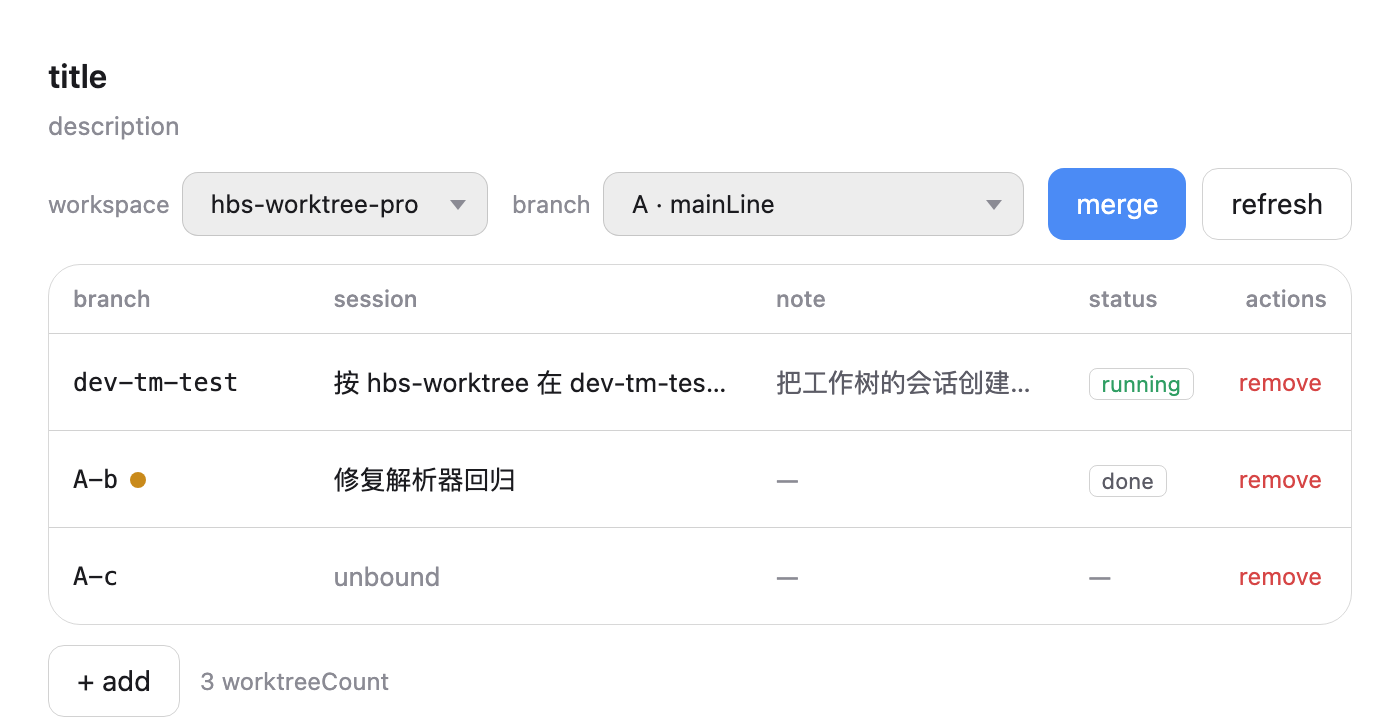
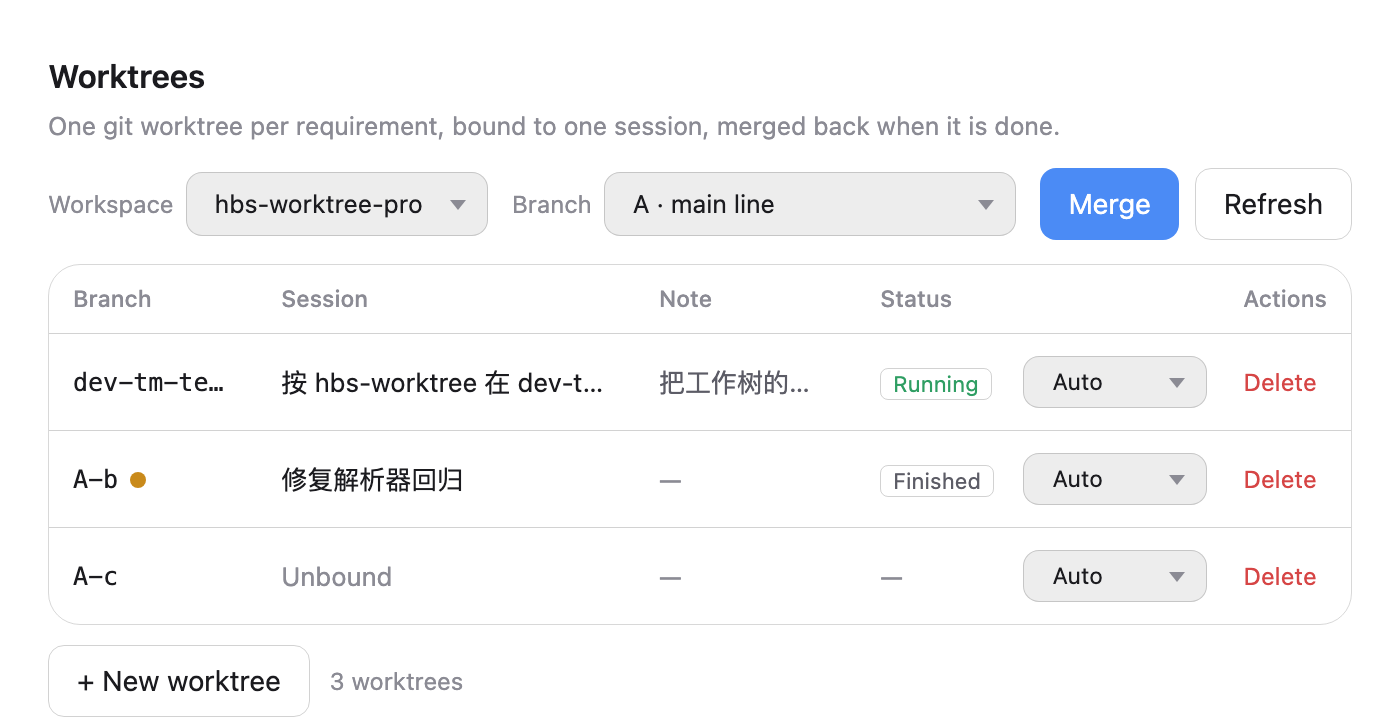
feat: 工作树自动提交开关（默认开） + 完成后必须提交的 skill 规则
- engine: entry 增加 autoCommit（默认 true），新增 update 命令，env/list 返回该字段
- switch: 工作树有未提交改动时拒绝预览（worktree-dirty），并说明原因
- 面板: 操作列改为「自动提交/手动提交」下拉 + 删除，重排列宽（16/29/17/11/27），
  宽/中/窄三个宽度都验证过
- skill: 硬规矩第 4 条——需求做完必须提交并推送，autoCommit=false 时改为提示用户
- 截图工具改为绑定真实英文词典，截图里是标签而不是 key
- 版本 0.6.0

diff --git a/client.js b/client.js
@@ -64,6 +64,10 @@ window.__ModuleLoader__.load({
       add: 'New worktree',
       remove: 'Delete',
       unbound: 'Unbound',
+      autoCommitOn: 'Auto',
+      autoCommitOff: 'Manual',
+      autoCommitHint: 'Auto-commit: the session commits and pushes when the requirement is done. Off: you commit by hand, and switching to it will be refused while dirty.',
+      okAutoCommit: 'Auto-commit setting saved',
       running: 'Running',
       done: 'Finished',
       loading: 'Loading…',
@@ -124,6 +128,10 @@ window.__ModuleLoader__.load({
       add: '新增工作树',
       remove: '删除',
       unbound: '未绑定',
+      autoCommitOn: '自动提交',
+      autoCommitOff: '手动提交',
+      autoCommitHint: '自动提交：会话做完需求自己提交并推送。手动提交：你自己提交；工作树有未提交改动时不允许切过去。',
+      okAutoCommit: '自动提交设置已保存',
       running: '运行中',
       done: '已完成',
       loading: '加载中…',
@@ -270,7 +278,10 @@ window.__ModuleLoader__.load({
     };
     const tableStyle = { width: '100%', borderCollapse: 'collapse', tableLayout: 'fixed' };
     /** Branch / session / note / status / actions — the table owns these, not the cells. */
-    const COLUMN_WIDTHS = ['20%', '34%', '24%', '10%', '12%'];
+    const COLUMN_WIDTHS = ['16%', '29%', '17%', '11%', '27%'];
+    /** Two controls in one cell: the auto-commit picker and the delete action. */
+    const actionGroupStyle = { display: 'inline-flex', alignItems: 'center', gap: 8, justifyContent: 'flex-end' };
+    const actionSelectStyle = { width: 92, height: 26, fontSize: 11.5 };
     const rowHover = { cursor: 'default' };
     const thStyle = {
       textAlign: 'left',
@@ -436,7 +447,7 @@ window.__ModuleLoader__.load({
         '请先读取并严格遵守 hbs-worktree skill。',
         '本会话已绑定工作树分支 ' + String(branch || '') + '，工作目录是 ' + String(path || '') + '。',
         '所有文件操作只能用该目录下的绝对路径，所有 git 命令用 git -C ' + String(path || '') + '，',
-        '不要修改主业务代码目录里的任何文件；收尾时提交并推送，合并在面板上由我来做。',
+        '不要修改主业务代码目录里的任何文件；需求完成时按 skill 的规则提交并推送（默认要提交），合并在面板上由我来做。',
       ].join('\n');
     }
 
@@ -513,6 +524,7 @@ window.__ModuleLoader__.load({
             opacity: props.disabled ? 0.5 : 1,
           }),
           value: props.value,
+          title: props.title,
           disabled: props.disabled,
           onChange: props.onChange,
         }, props.options.map((option) => h('option', { key: option.value, value: option.value }, option.label))),
@@ -620,12 +632,25 @@ window.__ModuleLoader__.load({
             ? h('span', { style: mutedText }, '—')
             : (known.running === true ? h(Tag, { tone: 'ok' }, t('running')) : h(Tag, null, t('done')))),
         h('td', { style: Object.assign({}, cell, { textAlign: 'right' }) },
-          h('button', Object.assign({
-            type: 'button',
-            style: smallButton('danger'),
-            title: exists ? undefined : t('missingDir'),
-            onClick: () => props.onRemove(row),
-          }, hoverable('danger')), t('remove'))));
+          h('span', { style: actionGroupStyle },
+            h(Select, {
+              value: row.autoCommit === false ? 'off' : 'on',
+              wrapperStyle: { flex: 'none' },
+              controlStyle: actionSelectStyle,
+              title: t('autoCommitHint'),
+              disabled: !exists,
+              options: [
+                { value: 'on', label: t('autoCommitOn') },
+                { value: 'off', label: t('autoCommitOff') },
+              ],
+              onChange: (event) => props.onAutoCommit(row, event.target.value === 'on'),
+            }),
+            h('button', Object.assign({
+              type: 'button',
+              style: smallButton('danger'),
+              title: exists ? undefined : t('missingDir'),
+              onClick: () => props.onRemove(row),
+            }, hoverable('danger')), t('remove')))));
     }
 
     /** Modal asking for branch name, session and note; the engine's refusal stays inline. */
@@ -851,6 +876,18 @@ window.__ModuleLoader__.load({
         setNotice({ tone: 'bad', text: errorText(t, result.error), files: [] });
       };
 
+      // Auto-commit is a per-worktree setting the session reads through
+      // `hbs-wt env`, so changing it here changes what the agent does next.
+      const changeAutoCommit = async (row, autoCommit) => {
+        setNotice(null);
+        const result = await actions.run('update', { branch: String(row.branch || ''), autoCommit: autoCommit });
+        if (result.ok === true) {
+          setNotice({ tone: 'ok', text: t('okAutoCommit') + ' · ' + String(row.branch || '') + ' · ' + (autoCommit ? t('autoCommitOn') : t('autoCommitOff')), files: [] });
+          return;
+        }
+        setNotice({ tone: 'bad', text: errorText(t, result.error), files: [] });
+      };
+
       const everyBranch = base === '' ? [] : [base].concat(worktrees.map((row) => String(row.branch || '')).filter((branch) => branch !== '' && branch !== base));
       const branchOptions = base === '' ? [] : [{ value: base, label: base + ' · ' + t('mainLine') }]
         .concat(worktrees.map((row) => String(row.branch || '')).filter((branch) => branch !== '' && branch !== base).map((branch) => ({ value: branch, label: branch })));
@@ -998,6 +1035,7 @@ window.__ModuleLoader__.load({
             row: row,
             sessionById: sessionById,
             isLast: index === worktrees.length - 1,
+            onAutoCommit: (target, autoCommit) => void changeAutoCommit(target, autoCommit),
             onRemove: (target) => setDialog({ kind: 'remove', branch: String(target.branch || '') }),
           }));
         tableArea = h('div', { style: tableWrapStyle },

diff --git a/lib/engine.js b/lib/engine.js
@@ -185,6 +185,9 @@ async function rowOf(root, base, branch, path, exists, entry) {
     ahead: base === null ? 0 : await git.commitsBetween(root, base, branch),
     session: typeof entry?.session === 'string' ? entry.session : '',
     note: typeof entry?.note === 'string' ? entry.note : '',
+    // Auto-commit is the default the skill relies on: finish a requirement, commit
+    // it, push it. Opting out is per worktree so one branch can stay hands-on.
+    autoCommit: entry?.autoCommit !== false,
     createdAt: typeof entry?.createdAt === 'string' ? entry.createdAt : '',
   };
 }
@@ -309,7 +312,8 @@ async function add(args, options) {
 
   const session = typeof args.session === 'string' ? args.session : '';
   const note = typeof args.note === 'string' ? args.note.trim() : '';
-  repo.state.entries[branch] = { session: '', note, createdAt: new Date().toISOString() };
+  const autoCommit = args.autoCommit !== false;
+  repo.state.entries[branch] = { session: '', note, autoCommit, createdAt: new Date().toISOString() };
   if (session !== '') setBinding(repo.state, branch, session);
   await repo.save();
   return { worktree: await rowOf(repo.root, base, branch, path, true, repo.state.entries[branch]) };
@@ -369,6 +373,20 @@ async function switchTo(args, options) {
   if (currentBranch === branch) {
     return { branch, base, changed: false };
   }
+  // A worktree branch previewed with uncommitted edits would show the branch tip,
+  // not the work in progress — say so instead of silently hiding it.
+  const entry = repo.state.entries[branch];
+  const listed = (await git.worktrees(repo.root)).find((worktree) => worktree.branch === branch);
+  const worktreePath = entry === undefined
+    ? undefined
+    : (listed === undefined ? join(repo.paths.dir, ...branch.split('/')) : listed.path);
+  if (worktreePath !== undefined && existsSync(worktreePath) && (await git.isDirty(worktreePath))) {
+    throw new EngineError(
+      'worktree-dirty',
+      `工作树 ${branch} 还有未提交的改动：切过去也看不到这些内容。先让它提交（或手动提交）再切换。`,
+      { path: worktreePath, branch },
+    );
+  }
   if (await git.isDirty(repo.root)) {
     throw new EngineError('main-dirty', '主业务代码有未提交改动，先提交或 stash 再切换。', { root: repo.root });
   }
@@ -376,7 +394,7 @@ async function switchTo(args, options) {
   // refuses a second checkout of the same branch — so previewing it means a
   // detached HEAD. The worktree itself stays untouched, and the base does not
   // move: this is a look, not a change of business branch.
-  const isWorktree = repo.state.entries[branch] !== undefined;
+  const isWorktree = entry !== undefined;
   const checkout = await git.git(repo.root, isWorktree ? ['checkout', '--detach', branch] : ['checkout', branch]);
   if (!checkout.ok) throw new EngineError('internal', `切换失败：${checkout.stderr}`, { branch });
   repo.state.preview = isWorktree ? branch : null;
@@ -423,6 +441,17 @@ async function merge(args, options) {
   return { from, into, merged: true };
 }
 
+/** `update` — change one worktree's settings (currently the auto-commit switch). */
+async function update(args, options) {
+  const repo = await openRepo(options);
+  const branch = await branchName(args.branch, '分支名');
+  const entry = repo.state.entries[branch];
+  if (entry === undefined) throw new EngineError('unknown-worktree', `没有 ${branch} 这个工作树。`, { branch });
+  if (typeof args.autoCommit === 'boolean') entry.autoCommit = args.autoCommit;
+  await repo.save();
+  return { branch, autoCommit: entry.autoCommit !== false };
+}
+
 /** `bind` — pin one session to one worktree branch. */
 async function bind(args, options) {
   const repo = await openRepo(options);
@@ -465,6 +494,7 @@ async function env(args, options) {
       base: repo.state.base,
       session,
       note: typeof entry.note === 'string' ? entry.note : '',
+      autoCommit: entry.autoCommit !== false,
     };
   }
   return null;
@@ -483,6 +513,7 @@ const COMMANDS = {
   repo: repoInfo,
   list,
   add,
+  update,
   remove,
   switch: switchTo,
   merge,

diff --git a/docs/CONTRACT.md b/docs/CONTRACT.md
@@ -52,7 +52,8 @@ git 命令直接在主业务代码目录里执行。本文件覆盖 v1 中冲突
 | --- | --- | --- |
 | `repo` | `{}` | `{ root, isGit, base, preview, currentBranch, detached, dirty }` |
 | `list` | `{}` | `{ root, isGit, base, preview, currentBranch, detached, dirty, worktrees: [row] }` |
-| `add` | `{ branch, session?, note? }` | `{ worktree: row }` |
+| `add` | `{ branch, session?, note?, autoCommit? }` | `{ worktree: row }` |
+| `update` | `{ branch, autoCommit }` | `{ branch, autoCommit }` |
 | `remove` | `{ branch, force? }` | `{ branch, removed: true }` |
 | `switch` | `{ branch }` | `{ branch, base, preview, changed, detached }` |
 | `merge` | `{ from, into }` | `{ from, into, merged: true }` |
@@ -71,6 +72,7 @@ git 命令直接在主业务代码目录里执行。本文件覆盖 v1 中冲突
   "path": "/项目/.worktree/A-a",
   "session": "session-6742…",
   "note": "解析器重写",
+  "autoCommit": true,
   "createdAt": "2026-11-10T02:00:00.000Z",
   "exists": true,
   "dirty": false,
@@ -79,6 +81,8 @@ git 命令直接在主业务代码目录里执行。本文件覆盖 v1 中冲突
 ```
 
 `exists` 为 false 表示元数据还在但目录没了（可 `prune`）；`ahead` 是相对 `base` 的领先提交数。
+`autoCommit` 默认 `true`：会话收尾自己提交并推送；用户可在操作列切成 `false`，此时会话不提交，
+且 `switch` 会因工作树脏被拒绝（切过去也看不到未提交内容）。
 
 ### 预览 vs 切换
 
@@ -139,7 +143,8 @@ git 命令直接在主业务代码目录里执行。本文件覆盖 v1 中冲突
   任何一步失败都要说清：工作树已建、会话未成，让用户自己补。
 - **表格列**：分支 / 会话 / 备注 / 状态 / 操作。
   - 状态：会话 `running === true` → 「运行中」，否则「已完成」；未绑定会话显示「—」。
-  - 操作：只有「删除」，二次确认后执行 `remove`；返回 `unmerged-commits` 时提示确认后可强制删。
+  - 操作：两个控件——「自动提交 / 手动提交」下拉（执行 `update`）+「删除」（二次确认后执行 `remove`；
+    返回 `unmerged-commits` / `worktree-dirty` 时提示确认后可强制删）。
 - **空态**：表格空 + 「新增工作树」。
 - **非 git**：顶部提示，页面其余部分不渲染。
 
@@ -147,13 +152,19 @@ git 命令直接在主业务代码目录里执行。本文件覆盖 v1 中冲突
 `byId[sessionId]` 有 `title`、`running`、`cwd`、`blank`；归档集合在
 `ctx.workspaces.list.getSnapshot().archivedSessionIds`。
 
-## 5. 会话归属
+## 5. 提交规则
+
+会话做完需求必须提交（`autoCommit: true`，默认）：分支独立，提交不影响主业务代码；不提交则
+`switch` 会以 `worktree-dirty` 拒绝（预览只显示已提交内容），成果也看不见。
+`autoCommit: false` 时会话不得提交，改为提示用户手动提交。
+
+## 6. 会话归属
 
 新建的会话用 `workspaceId` 挂在**面板当前选中的 Harness 工作区**下（不是 `cwd`），
 所以它出现在那个项目里；「只操作工作树目录」由 skill 的纪律约束，而不是物理 cwd。
 `cwd` 方案（会话根目录直接是工作树）隔离更强，但会话归类会脱离项目，v2 不采用。
 
-## 6. skill 协议（随插件分发）
+## 7. skill 协议（随插件分发）
 
 绑定后 agent 只在 `<root>/.worktree/<branch>` 里干活，全部用绝对路径、`git -C`，收尾仍走 CLI。
 主业务分支由用户在面板上合并，agent 不碰。

diff --git a/README.md b/README.md
@@ -26,6 +26,7 @@ hbs-worktree makes the requirement a first-class thing: its own directory, its o
 | Lock the directory | Nothing | The session's first message tells the agent to read the `hbs-worktree` skill and only touch absolute paths under `.worktree/<branch>` |
 | Preview | Switch the branch picker | The main checkout shows that branch and can run; "back to main line" restores it |
 | Merge | Merge dialog: source + target | Plain `git merge`; a conflict rolls back and lists the files |
+| Commit | The actions dropdown: auto / manual (auto by default) | Auto: the session commits and pushes when done. Manual: you commit yourself |
 | Clean up | Delete + confirm | Removes directory and branch; uncommitted or unmerged work needs a second confirmation |
 
 ## How it works
@@ -88,6 +89,7 @@ npm pack          # produces hbs-worktree-<version>.tgz, install that with the p
 2. **+ New worktree** — branch `dev-a`, session name, optional note.
    *Effect: branch created, checked out under `.worktree/dev-a`, a session created in this workspace, named, bound, revealed, and given its first instruction — in one click.*
 3. **Work in that session** — the agent edits `.worktree/dev-a` only; the main code is untouched and the status column shows whether the session is running.
+   When the requirement is done the session **commits and pushes by default**: it is a separate branch, so committing cannot touch the main code, while *not* committing means a preview is refused (dirty worktree) and the work is invisible. Switch the actions dropdown to "Manual" to opt out.
 4. **Preview** — switch the branch picker to `dev-a`.
    *Effect: the main checkout shows that branch, so a dev server runs it; "back to main line" restores the base branch.*
 5. **Merge** — pick source and target (the base branch by default).
@@ -123,7 +125,7 @@ hbs-wt prune                       # drop stale worktree metadata
 
 ## Session protocol
 
-The `hbs-worktree` skill ships with the plugin and states six rules: confirm the binding before writing, use absolute paths under the returned `root`, run git as `git -C <root>`, never switch or merge, report conflicts verbatim, commit and push when done.
+The `hbs-worktree` skill ships with the plugin and states seven rules: confirm the binding before writing, use absolute paths under the returned `root`, run git as `git -C <root>`, **commit when the requirement is done** (unless the worktree opted out of auto-commit), never switch or merge, report conflicts verbatim, and report what changed.
 
 ## State
 
@@ -134,6 +136,7 @@ The `hbs-worktree` skill ships with the plugin and states six rules: confirm the
 - **`git status` says `HEAD (no branch)` while previewing** — the branch is checked out elsewhere; content is right, commits belong in the worktree.
 - **No `node_modules` in a worktree** — `git worktree add` checks out tracked files only; install what you need there.
 - **Switching or merging needs a clean main checkout** — otherwise the dirty tree would be overwritten.
+- **"The worktree has uncommitted changes" when previewing** — a preview shows committed content only, so the panel refuses instead of hiding your work; commit first (that is why auto-commit is the default).
 - **You cannot merge into a worktree branch** — git will not check out that branch twice.
 - **Never run `git clean -xdf` in the main checkout** — `-x` would delete `.worktree/`.
 - **Do other users need to install the skill separately?** No — it is registered by the plugin.

diff --git a/assets/hbs-worktree.md b/assets/hbs-worktree.md
@@ -18,9 +18,13 @@
 2. **只用绝对路径。** 绑定返回的 `root` 是唯一可写目录：`<root>/…`。会话的当前目录仍是主业务代码，
    相对路径会写进主代码。
 3. **git 命令一律 `git -C <root> …`。** 禁止在主业务目录里 commit / checkout / merge / push / reset。
-4. **不碰主业务分支。** 不切分支、不合并、不删除；合并由用户在面板上点「合并」。
-5. **不删工作树。** 删除是用户在面板上的操作，你没有这个权限。
-6. **冲突不猜。** 遇到冲突原样上报文件清单，不自动 resolve、不 `--force`。
+4. **做完了必须提交。** 需求完成时执行 `git -C <root> add -A && git -C <root> commit -m "…"`
+   （有远端再 `git -C <root> push`）。工作树是独立分支，提交不会影响主代码；反过来，**不提交**会
+   让用户切过去时被拒绝（工作树有未提交改动），而且切换后看到的还是旧内容。
+   唯一的例外：`hbs-wt env` 的 `autoCommit` 为 `false` 时不要提交，改为提醒用户手动提交。
+5. **不碰主业务分支。** 不切分支、不合并、不删除；合并由用户在面板上点「合并」。
+6. **不删工作树。** 删除是用户在面板上的操作，你没有这个权限。
+7. **冲突不猜。** 遇到冲突原样上报文件清单，不自动 resolve、不 `--force`。
 
 ## 命令
 
@@ -63,15 +67,28 @@ hbs-wt env --session $DSH_SESSION_ID
 
 ```json
 { "root": "/项目/.worktree/A-a", "branch": "A-a", "base": "A",
-  "repo": "/项目", "session": "session-…", "note": "解析器重写" }
+  "repo": "/项目", "session": "session-…", "note": "解析器重写", "autoCommit": true }
 ```
 
-`root` 就是本会话的工作目录。
+`root` 就是本会话的工作目录；`autoCommit` 决定收尾要不要自己提交（见第三步）。
 
 **第二步：干活。** 所有编辑用 `root` 开头的绝对路径，所有 git 命令 `git -C <root>`。
 提交信息用中文，一个逻辑改动一次提交。有远端时收尾 `git -C <root> push`。
 
-**第三步：回报。** 告诉用户：改了哪些文件、提交了几次、是否已推送、还有什么没做完。
+**第三步：提交并回报。** 需求完成时，`autoCommit` 为 `true`（默认）就执行：
+
+```bash
+git -C <root> add -A
+git -C <root> commit -m "feat: 这次需求做了什么"
+git -C <root> push        # 有远端时
+```
+
+**为什么必须提交**：工作树是独立分支，提交不会碰到主业务代码；但不提交的话，用户切到这个分支
+会被拒绝（工作树有未提交改动），即使切过去也看不到你改的东西——等于白做。
+`autoCommit` 为 `false` 时（用户在面板上关掉了）不要提交，把「还有哪些改动没提交」告诉用户，
+让他自己提交。
+
+最后回报：改了哪些文件、提交了几次、是否已推送、还有什么没做完。
 **不要自己合并、不要自己切分支**——合并由用户在面板选源/目标执行。
 
 如果第一条指令没有自动发出（面板会提示你手动发送），把它原样发给我：

diff --git a/CHANGELOG.md b/CHANGELOG.md
@@ -1,5 +1,17 @@
 # Changelog
 
+## 0.6.0 — 2026-11-10
+
+- **Auto-commit is now a per-worktree setting**, on by default and switched from the
+  actions column (`update` command). The skill asks the session to commit and push when
+  the requirement is done — a separate branch cannot touch the main code, while *not*
+  committing leaves the work invisible and makes a preview fail.
+- `switch` refuses to preview a worktree with uncommitted changes (`worktree-dirty`),
+  saying why instead of silently showing the old content.
+- The actions column holds two controls now (auto-commit picker + delete); column widths
+  were rebalanced (16 / 29 / 17 / 11 / 27 %) and checked at 1180 / 900 / 700 px.
+- `hbs-wt env` and `list` rows report `autoCommit`, so the agent reads the setting live.
+
 ## 0.5.3 — 2026-11-10
 
 - README install section rewritten for both audiences: users take the tarball from Releases
